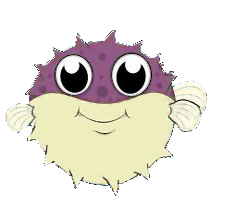
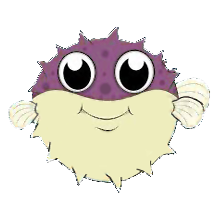
Added ball texture

Changed region(s): [[0.0, 0.1143, 0.9906, 0.9429]]

diff --git a/src/LevelDesign/ASCIIArtLevelParser.hpp b/src/LevelDesign/ASCIIArtLevelParser.hpp
@@ -48,16 +48,17 @@ public:
             file >> file_line;
             for (int x = 0; x < level.width; x++) {
                 if (file_line[x] == 'B') {
-                    auto rigidBody = make_unique<RigidBodyCircle>(Level::BALL_ID, x, y);
+                    auto rigidBody = make_unique<RigidBodyCircle>(Level::BALL_ID, x, y, Level::BALL_RADIUS, Level::BALL_MASS);
 #ifdef OPENCV_LIBS
                     cv::Mat img = cv::imread(Level::BALL_IMAGE_PATH, cv::IMREAD_UNCHANGED);
-                    unique_ptr<Texture4F> texture = make_unique<Texture4F>(glm::ivec2{img.size().width, img.size().height});
+                    if (!img.data) {
+                        Log::warn("Ball image not found! Using default color mesh.");
+                        level.setUniqueMesh(Level::BALL_ID, rigidBody->createColoredMesh(Level::BALL_COLOR));
+                        continue;
+                    }
+                    Texture4F *texture = level.addUniqueTexture(make_unique<Texture4F>(glm::ivec2{img.cols, img.rows}));
                     texture->setData(img);
-                    level.addUniqueTexture(make_unique<Texture>(static_cast<Texture>(*texture))); // TODO: WTF, there must be a better way...
-                    level.setUniqueMesh(Level::BALL_ID, make_unique<TexturedMesh>(
-                        Mesh::createCircle(vec2(0, 0), rigidBody->radius),
-                        texture.get()
-                    ));
+                    level.setUniqueMesh(Level::BALL_ID, make_unique<TexturedMesh>(3, texture));
 #else
                     level.setUniqueMesh(Level::BALL_ID, rigidBody->createColoredMesh(Level::BALL_COLOR));
 #endif

diff --git a/src/Visualization/Mesh.cpp b/src/Visualization/Mesh.cpp
@@ -192,6 +192,18 @@ void TexturedMesh::init(const std::vector<Vertex>& vertex_buffer)
     glBindVertexArray(0);
 }
 
+// Creates a square textured mesh
+TexturedMesh::TexturedMesh(int scale, const Texture* texture) :
+        Mesh(static_cast<decltype(m_vertex_count)>(6)),
+        m_texture(texture) {
+    std::vector<glm::vec3> vertices = Mesh::createRectangle({-scale, -scale}, {scale, scale});
+    std::vector<Vertex> vertex_buffer(6);
+    for (int i = 0; i < m_vertex_count; i++) {
+        vertex_buffer[i] = {vertices[i], { vertices[i].x > 0 ? 0 : 1, vertices[i].y > 0 ? 1 : 0 }};
+    }
+    init(vertex_buffer);
+}
+
 TexturedMesh::TexturedMesh(const std::vector<glm::vec3>& vertices, const Texture* texture)
     : Mesh(static_cast<decltype(m_vertex_count)>(vertices.size()))
     , m_texture(texture)

diff --git a/src/LevelDesign/Level.hpp b/src/LevelDesign/Level.hpp
@@ -18,11 +18,13 @@ using namespace glm;
 struct Level {
 private:
     vector<unique_ptr<Mesh>> unique_meshes;
-    vector<unique_ptr<Texture>> unique_textures;
+    vector<unique_ptr<Texture4F>> unique_textures;
 
 public:
     enum CellType { FLUID, OBSTACLE, INFLOW, OUTFLOW };
     static const int BALL_ID;
+    static const float BALL_RADIUS;
+    static const float BALL_MASS;
     static const char *BALL_IMAGE_PATH;
     static const vec3 BALL_COLOR;
     static const vec3 OBSTACLE_COLOR;
@@ -51,7 +53,7 @@ public:
         return ret;
     }
 
-    Texture *addUniqueTexture(unique_ptr<Texture> texture) {
+    Texture4F *addUniqueTexture(unique_ptr<Texture4F> texture) {
 		auto ret = texture.get();
         unique_textures.push_back(move(texture));
         return ret;

diff --git a/src/LevelDesign/ImageRecLevelParser.hpp b/src/LevelDesign/ImageRecLevelParser.hpp
@@ -103,7 +103,7 @@ public:
             for (int y = 0; y < levelSize.width; y++) {
                 Vec3b pixel = levelImg.at<Vec3b>(Point(x, y));
                 if (pixel == COLOR_BALL) {
-                    auto rigidBody = make_unique<RigidBodyCircle>(Level::BALL_ID, x, level.height - y - 1);
+                    auto rigidBody = make_unique<RigidBodyCircle>(Level::BALL_ID, x, level.height - y - 1, Level::BALL_RADIUS, Level::BALL_MASS);
                     level.setUniqueMesh(Level::BALL_ID, rigidBody->createColoredMesh(Level::BALL_COLOR));
                     level.rigidBodies.push_back(move(rigidBody));
                 }

diff --git a/src/Visualization/Mesh.hpp b/src/Visualization/Mesh.hpp
@@ -60,6 +60,7 @@ class TexturedMesh : public Mesh
     void init(const std::vector<Vertex>& vertex_buffer);
 
 public:
+    TexturedMesh(int scale, const Texture* texture);
     TexturedMesh(const std::vector<glm::vec3>& vertices, const Texture* texture);
     TexturedMesh(const std::vector<glm::vec3>& vertices, const Texture* texture, const std::vector<glm::vec2> tex_coords);
     void render(GLint mode_location) const final;

diff --git a/src/LevelDesign/Level.cpp b/src/LevelDesign/Level.cpp
@@ -1,6 +1,8 @@
 #include "Level.hpp"
 
 const int Level::BALL_ID = 1;
+const float Level::BALL_RADIUS = 3.f;
+const float Level::BALL_MASS = 0.5f;
 const char *Level::BALL_IMAGE_PATH = "data/ball.png";
 const vec3 Level::BALL_COLOR = vec3(255, 0, 0);
 const vec3 Level::OBSTACLE_COLOR = vec3(0, 0, 255);
